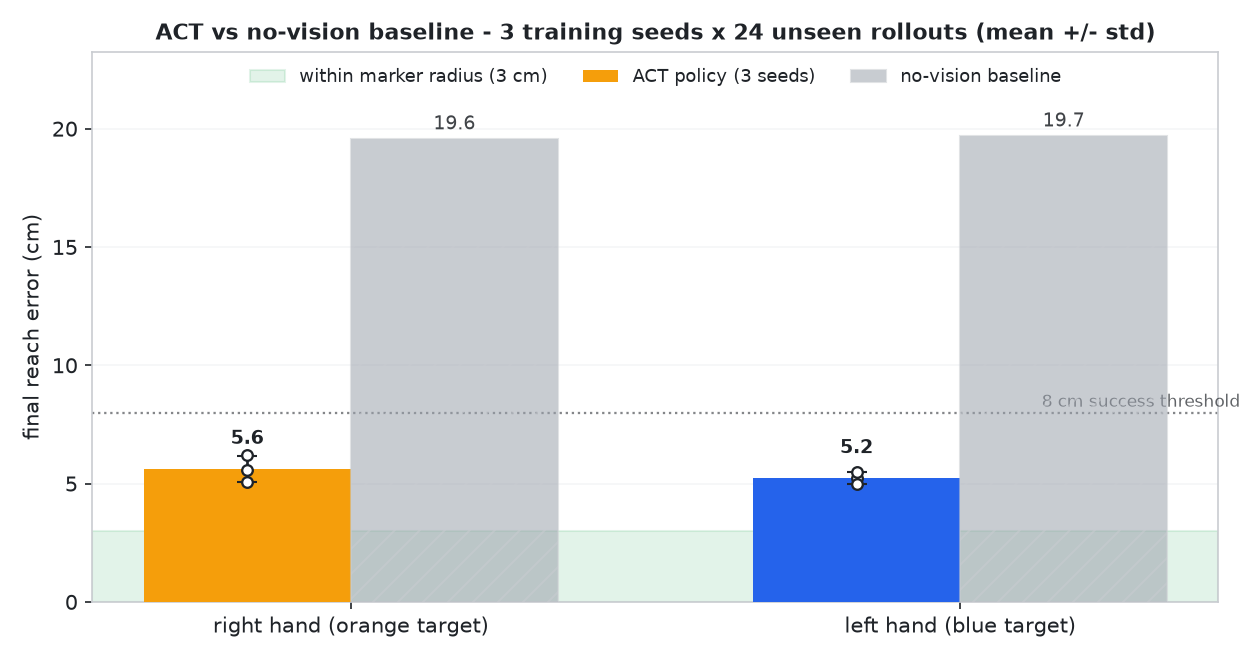
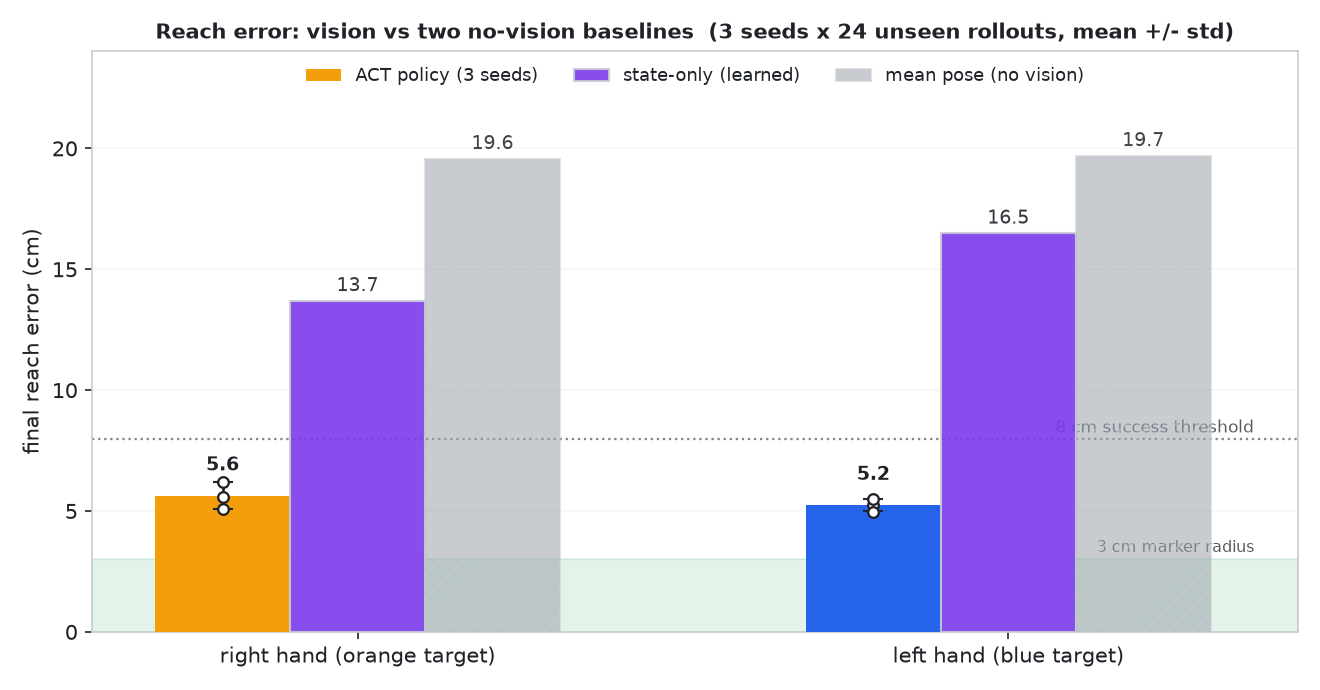
docs(act): show the learned baseline in the accuracy chart
aggregate_reach.py now draws three bars per hand -- ACT (vision), the
learned state-only baseline, and the fixed mean pose -- so the figure
matches the three-way README table. Regenerates accuracy.png /
accuracy_dark.png and summary.json, and updates the chart caption.

Changed region(s): [[0.0, 0.0303, 0.9905, 0.9697]]

diff --git a/tools/skate_commander/examples/act_reach/aggregate_reach.py b/tools/skate_commander/examples/act_reach/aggregate_reach.py
@@ -1,15 +1,18 @@
 """Aggregate per-seed ACT rollout metrics into the headline result.
 
 Reads the ``rollout_metrics.json`` files produced by ``rollout_act.py`` (one per
-training seed) plus the ``baseline_metrics.json`` from ``baseline_reach.py``,
-computes the mean +/- std across seeds, prints the results table, writes
-``summary.json``, and redraws the accuracy chart (light + dark variants) — i.e.
-the exact numbers and figure used in the top-level README.
+training seed), the ``baseline_metrics.json`` from ``baseline_reach.py`` (the
+fixed mean-pose control) and the ``state_baseline_metrics.json`` from
+``state_baseline_reach.py`` (the learned state-only control), computes the
+mean +/- std across seeds, prints the results, writes ``summary.json``, and
+redraws the accuracy chart (light + dark variants) -- the exact numbers and
+figure used in the top-level README.
 
-    python aggregate_reach.py seed0.json seed1.json seed2.json baseline.json
+    python aggregate_reach.py seed0.json seed1.json seed2.json baseline.json state_baseline.json
 
-Any argument whose filename contains "baseline" is the no-vision baseline; the
-rest are per-seed ACT rollouts. Charts go to ``OUT_DIR`` (default: the repo's
+Filename rules: an arg containing "state" is the learned state-only baseline; an
+arg containing "baseline" (but not "state") is the mean-pose baseline; the rest
+are per-seed ACT rollouts. Charts go to ``OUT_DIR`` (default: the repo's
 ``docs/img/act/``); ``summary.json`` is written next to the first input.
 """
 import os
@@ -25,9 +28,16 @@ OUT_DIR = os.environ.get("OUT_DIR", os.path.join(REPO, "docs", "img", "act"))
 
 args = sys.argv[1:]
 if not args:
-    sys.exit("usage: python aggregate_reach.py <seed*.json> ... <baseline.json>")
-seed_files = [a for a in args if "baseline" not in os.path.basename(a).lower()]
-base_files = [a for a in args if "baseline" in os.path.basename(a).lower()]
+    sys.exit("usage: python aggregate_reach.py <seed*.json> ... <baseline.json> [state_baseline.json]")
+
+
+def bn(a):
+    return os.path.basename(a).lower()
+
+
+state_files = [a for a in args if "state" in bn(a)]
+base_files = [a for a in args if "baseline" in bn(a) and "state" not in bn(a)]
+seed_files = [a for a in args if a not in state_files and a not in base_files]
 
 seeds = [json.load(open(f)) for f in seed_files]
 sR = np.array([s["meanR"] for s in seeds]) * 100
@@ -54,52 +64,66 @@ base = json.load(open(base_files[0])) if base_files else None
 if base:
     summary.update(base_R=base["meanR"] * 100, base_L=base["meanL"] * 100,
                    base_succ=base["success_8cm"] * 100)
+state = json.load(open(state_files[0])) if state_files else None
+if state:
+    summary.update(state_R=state["meanR"] * 100, state_L=state["meanL"] * 100,
+                   state_succ=state["success_8cm"] * 100)
 
 json.dump(summary, open(os.path.join(os.path.dirname(seed_files[0]), "summary.json"), "w"), indent=2)
-print("ACT   R %.1f +/- %.1f cm   L %.1f +/- %.1f cm   success@8cm %.0f +/- %.0f%%   (%d seeds x %d)"
+print("ACT    R %.1f +/- %.1f cm   L %.1f +/- %.1f cm   success@8cm %.0f +/- %.0f%%   (%d seeds x %d)"
       % (summary["R_mean"], summary["R_std"], summary["L_mean"], summary["L_std"],
          summary["succ_mean"], summary["succ_std"], len(seeds), n_eval))
+if state:
+    print("STATE  R %.1f cm   L %.1f cm   success@8cm %.0f%%" % (summary["state_R"], summary["state_L"], summary["state_succ"]))
 if base:
-    print("BASE  R %.1f cm   L %.1f cm   success@8cm %.0f%%" % (summary["base_R"], summary["base_L"], summary["base_succ"]))
+    print("MEAN   R %.1f cm   L %.1f cm   success@8cm %.0f%%" % (summary["base_R"], summary["base_L"], summary["base_succ"]))
 
 
 def draw(dark):
     if dark:
-        BG, FG, GRID, blue, gray = "#0d1117", "#c9d1d9", "#8b949e", "#58a6ff", "#8b949e"
+        BG, FG, GRID, blue, gray, violet = "#0d1117", "#c9d1d9", "#8b949e", "#58a6ff", "#8b949e", "#a78bfa"
     else:
-        BG, FG, GRID, blue, gray = "white", "#1f2328", "#c9ccd1", "#2563EB", "#9BA2AC"
+        BG, FG, GRID, blue, gray, violet = "white", "#1f2328", "#c9ccd1", "#2563EB", "#9BA2AC", "#7C3AED"
     orange = "#F59E0B"
     plt.rcParams.update({"font.family": "DejaVu Sans", "axes.edgecolor": GRID,
                          "text.color": FG, "axes.labelcolor": FG, "xtick.color": FG,
                          "ytick.color": FG, "axes.facecolor": BG, "figure.facecolor": BG,
                          "savefig.facecolor": BG})
-    fig, ax = plt.subplots(figsize=(8.4, 4.4), dpi=150)
-    ax.axhspan(0, 3, color="#16a34a", alpha=0.20 if dark else 0.12, zorder=0,
-               label="within marker radius (3 cm)")
+    fig, ax = plt.subplots(figsize=(8.8, 4.6), dpi=150)
+    ax.axhspan(0, 3, color="#16a34a", alpha=0.20 if dark else 0.12, zorder=0)
+    ax.text(1.86, 3.15, "3 cm marker radius", fontsize=7.5, color=FG, alpha=0.75, ha="right", va="bottom")
     ax.axhline(8, color=FG, ls=":", lw=1.1, alpha=0.55)
-    ax.text(1.46, 8.25, "8 cm success threshold", fontsize=8, color=FG, alpha=0.7, ha="right")
-    x = np.array([0.0, 1.0])
-    w = 0.34
+    ax.text(1.86, 8.25, "8 cm success threshold", fontsize=8, color=FG, alpha=0.75, ha="right")
+    x = np.array([0.0, 1.35])
+    w = 0.28
     actm, acts = [sR.mean(), sL.mean()], [std(sR), std(sL)]
-    ax.bar(x - w / 2, actm, w, yerr=acts, capsize=5, color=[orange, blue],
+    ax.bar(x - w, actm, w, yerr=acts, capsize=5, color=[orange, blue],
            error_kw=dict(ecolor=FG, lw=1.3), label="ACT policy (%d seeds)" % len(seeds), zorder=3)
+    if state:
+        ax.bar(x, [summary["state_R"], summary["state_L"]], w, color=violet, alpha=0.9,
+               edgecolor=GRID, label="state-only (learned)", zorder=3)
     if base:
-        ax.bar(x + w / 2, [summary["base_R"], summary["base_L"]], w, color=gray, alpha=0.55,
-               hatch="//", edgecolor=GRID, label="no-vision baseline", zorder=3)
-    ax.scatter(np.full(len(seeds), x[0] - w / 2), sR, s=26, color=BG, edgecolor=FG, lw=1.1, zorder=5)
-    ax.scatter(np.full(len(seeds), x[1] - w / 2), sL, s=26, color=BG, edgecolor=FG, lw=1.1, zorder=5)
-    for xi, mv in zip(x - w / 2, actm):
+        ax.bar(x + w, [summary["base_R"], summary["base_L"]], w, color=gray, alpha=0.55,
+               hatch="//", edgecolor=GRID, label="mean pose (no vision)", zorder=3)
+    ax.scatter(np.full(len(seeds), x[0] - w), sR, s=26, color=BG, edgecolor=FG, lw=1.1, zorder=5)
+    ax.scatter(np.full(len(seeds), x[1] - w), sL, s=26, color=BG, edgecolor=FG, lw=1.1, zorder=5)
+    for xi, mv in zip(x - w, actm):
         ax.text(xi, mv + max(acts) + 0.5, "%.1f" % mv, ha="center", fontsize=9, fontweight="bold", color=FG)
+    if state:
+        for xi, mv in zip(x, [summary["state_R"], summary["state_L"]]):
+            ax.text(xi, mv + 0.4, "%.1f" % mv, ha="center", fontsize=9, color=FG, alpha=0.9)
     if base:
-        for xi, mv in zip(x + w / 2, [summary["base_R"], summary["base_L"]]):
+        for xi, mv in zip(x + w, [summary["base_R"], summary["base_L"]]):
             ax.text(xi, mv + 0.4, "%.1f" % mv, ha="center", fontsize=9, color=FG, alpha=0.85)
     ax.set_xticks(x)
     ax.set_xticklabels(["right hand (orange target)", "left hand (blue target)"])
     ax.set_ylabel("final reach error (cm)")
-    top = max([summary.get("base_R", 0), summary.get("base_L", 0)] + actm)
-    ax.set_ylim(0, top * 1.18)
-    ax.set_title("ACT vs no-vision baseline - %d training seeds x %d unseen rollouts (mean +/- std)"
-                 % (len(seeds), n_eval), fontsize=10.5, fontweight="bold", color=FG)
+    ax.set_xlim(-0.55, 1.95)
+    allv = actm + [summary.get("state_R", 0), summary.get("state_L", 0),
+                   summary.get("base_R", 0), summary.get("base_L", 0)]
+    ax.set_ylim(0, max(allv) * 1.22)
+    ax.set_title("Reach error: vision vs two no-vision baselines  (%d seeds x %d unseen rollouts, mean +/- std)"
+                 % (len(seeds), n_eval), fontsize=10, fontweight="bold", color=FG)
     ax.grid(axis="y", alpha=0.18, color=GRID)
     ax.legend(frameon=False, fontsize=8.5, loc="upper center", labelcolor=FG, ncol=3)
     fig.tight_layout()

diff --git a/README.md b/README.md
@@ -147,7 +147,7 @@ Skate Commander integrates best-in-class open-source robotics tools — each **o
     <img src="docs/img/act/accuracy.png" width="470" alt="ACT reach error vs a no-vision baseline across 3 training seeds">
   </picture>
   <br>
-  <sub><b>Left</b> — the trained policy driving both arms to the targets from a single camera. <b>Right</b> — reach error across 3 training seeds vs a no-vision baseline (vision cuts the error ~3.5×).</sub>
+  <sub><b>Left</b> — the trained policy driving both arms to the targets from a single camera. <b>Right</b> — reach error vs two no-vision baselines (a learned state-only policy and a fixed mean pose); only vision clears the 8 cm success line.</sub>
 </div>
 
 ```mermaid
